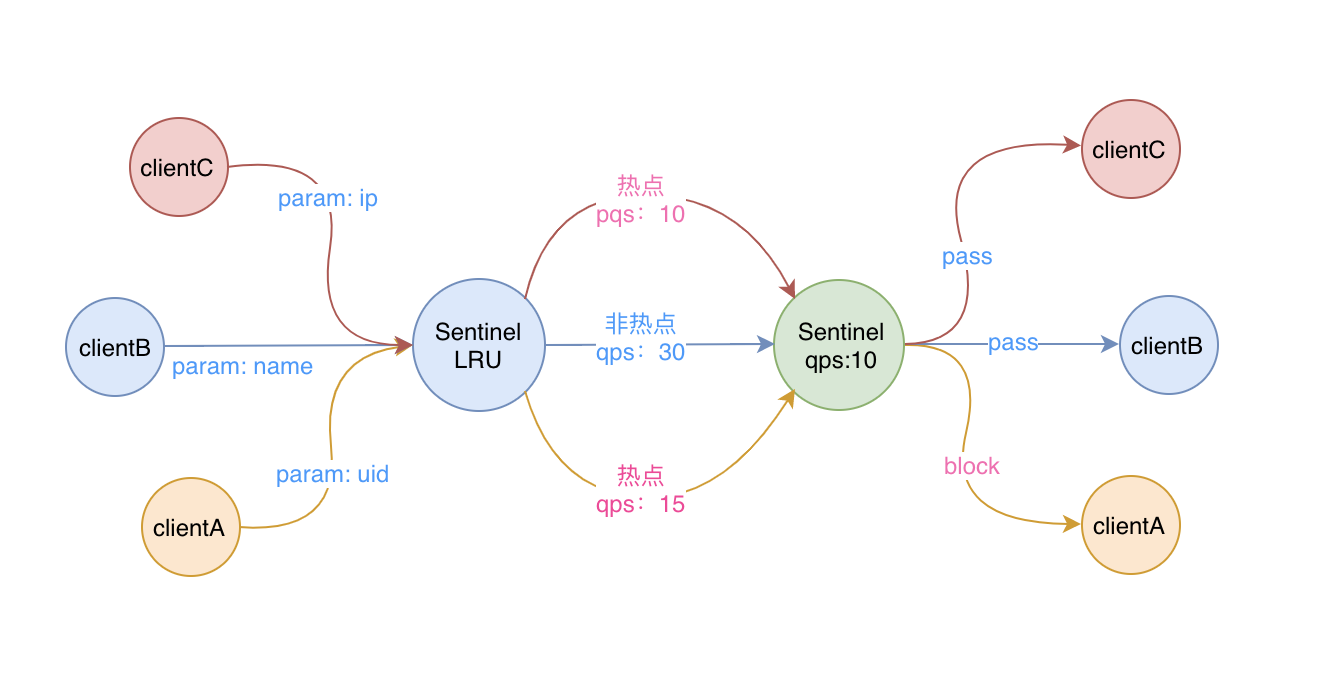
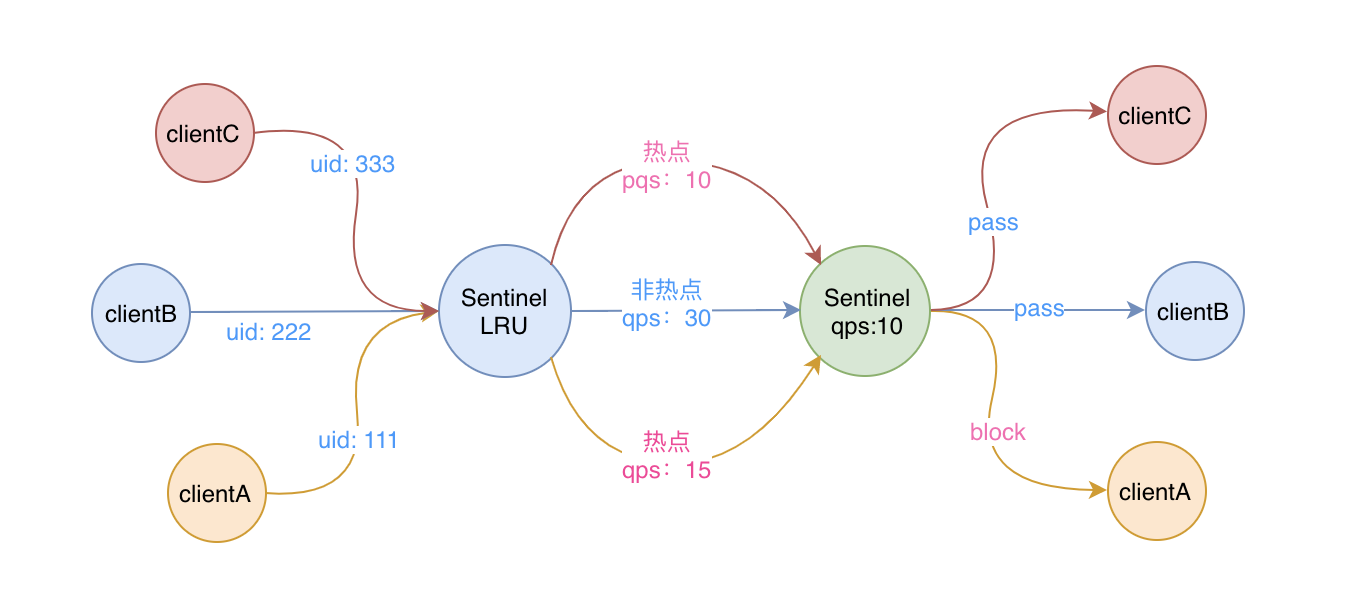
增加热点参数限流的Demo

diff --git a/sentinel-practice/sentinel-frequent-param-flow-control/src/main/java/com/lememo/sentinel/freqparamflow/FreqParamFlowSimulate.java b/sentinel-practice/sentinel-frequent-param-flow-control/src/main/java/com/lememo/sentinel/freqparamflow/FreqParamFlowSimulate.java
@@ -1,0 +1,206 @@
+package com.lememo.sentinel.freqparamflow;
+
+import com.alibaba.csp.sentinel.Entry;
+import com.alibaba.csp.sentinel.EntryType;
+import com.alibaba.csp.sentinel.SphU;
+import com.alibaba.csp.sentinel.slots.block.BlockException;
+import com.alibaba.csp.sentinel.slots.block.RuleConstant;
+import com.alibaba.csp.sentinel.slots.block.flow.param.ParamFlowItem;
+import com.alibaba.csp.sentinel.slots.block.flow.param.ParamFlowRule;
+import com.alibaba.csp.sentinel.slots.block.flow.param.ParamFlowRuleManager;
+import com.alibaba.csp.sentinel.util.TimeUtil;
+
+import java.util.Collections;
+import java.util.HashMap;
+import java.util.Map;
+import java.util.concurrent.ConcurrentHashMap;
+import java.util.concurrent.TimeUnit;
+import java.util.concurrent.atomic.AtomicLong;
+
+/**
+ * 模拟热点参数限流
+ * @author houyi
+ * @date 2019-01-19
+ **/
+public class FreqParamFlowSimulate {
+
+    private final String resourceName = "freqParam";
+
+    /**
+     * 4个用户的userId
+     */
+    private final Integer[] userIds = new Integer[]{111,222,333,444};
+
+    /**
+     * 4个用户的请求频率
+     */
+    private final Integer[] freqs = new Integer[]{20,80,160,300};
+
+    /**
+     * 整个过程模拟多少秒
+     */
+    private int simulateSeconds = 30;
+
+    /**
+     * 通过的次数
+     */
+    private final Map<Integer, AtomicLong> passCountMap = new ConcurrentHashMap<>();
+
+    private volatile boolean stop = false;
+
+    public static void main(String[] args) {
+        FreqParamFlowSimulate simulate = new FreqParamFlowSimulate();
+        // 初始化规则
+        simulate.initHotParamFlowRules();
+        // 初始化统计的map
+        simulate.initPassCountMap();
+        // 模拟请求
+        simulate.simulateUserRequest();
+        // 对请求结果进行统计
+        simulate.statisticResult();
+    }
+
+    /**
+     * 初始化热点限流的规则
+     */
+    private void initHotParamFlowRules() {
+        // 设置热点参数的规则，qps 模式，阈值为5
+        ParamFlowRule rule = new ParamFlowRule(resourceName)
+                .setParamIdx(0)
+                .setGrade(RuleConstant.FLOW_GRADE_QPS)
+                .setCount(5);
+        // 对userId=111的参数设置例外项，可以为该用户id的值单独设置阈值
+        ParamFlowItem item = new ParamFlowItem().setObject(String.valueOf(111))
+                .setClassType(int.class.getName())
+                .setCount(10);
+        rule.setParamFlowItemList(Collections.singletonList(item));
+        ParamFlowRuleManager.loadRules(Collections.singletonList(rule));
+    }
+
+    /**
+     * 初始化统计的map
+     */
+    private void initPassCountMap(){
+        for (Integer userId : userIds) {
+            passCountMap.putIfAbsent(userId, new AtomicLong());
+        }
+    }
+
+    /**
+     * 模拟用户请求
+     */
+    private void simulateUserRequest() {
+        int userCnt = userIds.length;
+        for (int i = 0; i < userCnt; i++) {
+            int userId = userIds[i];
+            int freq = freqs[i];
+            Thread t = new Thread(new UserRequestSimulator(userId,freq));
+            t.setName("simulator-" + userId);
+            t.start();
+        }
+    }
+
+    /**
+     * 统计结果
+     */
+    private void statisticResult() {
+        Thread timer = new Thread(new ResponseStatisticer());
+        timer.setName("statistic");
+        timer.start();
+    }
+
+    /**
+     * 模拟用户请求的线程
+     */
+    final class UserRequestSimulator implements Runnable {
+        /**
+         * 用户id
+         */
+        private int userId;
+        /**
+         * 请求的频率，单位：ms
+         */
+        private int freq;
+
+        UserRequestSimulator(int userId,int freq){
+            this.userId = userId;
+            this.freq = freq;
+        }
+
+        @Override
+        public void run() {
+            while (!stop) {
+                Entry entry = null;
+                try {
+                    // 对参数 userId 的值进行统计，通过热点参数的规则进行限流
+                    entry = SphU.entry(resourceName, EntryType.IN, 1, userId);
+                    // 用户id的值为：userId的请求已经通过了
+                    passCountMap.get(userId).incrementAndGet();
+                } catch (BlockException e) {
+                    // ignore
+                } finally {
+                    if (entry != null) {
+                        entry.exit();
+                    }
+                }
+                try {
+                    TimeUnit.MILLISECONDS.sleep(freq);
+                } catch (InterruptedException e) {
+                    // ignore
+                }
+            }
+        }
+    }
+
+    /**
+     * 用户请求结果的统计
+     * 每秒钟统计一次
+     */
+    final class ResponseStatisticer implements Runnable {
+
+        @Override
+        public void run() {
+            long start = System.currentTimeMillis();
+            System.out.println("Begin to run! Go go go!");
+            System.out.println("See corresponding metrics.log for accurate statistic data");
+            // 上一秒通过的次数统计
+            Map<Integer, Long> lastSecondPassCountMap = new HashMap<>(userIds.length);
+            for (Integer userId : userIds) {
+                lastSecondPassCountMap.putIfAbsent(userId, 0L);
+            }
+            while (!stop) {
+                try {
+                    // 每秒钟统计一次
+                    TimeUnit.SECONDS.sleep(1);
+                } catch (InterruptedException e) {
+                    // ignore
+                }
+                // 这种方式的统计可能会有误差
+                // 要查看实际的统计值，可以看 `metrics.log` 日志文件
+                for (Integer userId : userIds) {
+                    // 这一秒通过的次数
+                    long thisSecondPass = passCountMap.get(userId).get();
+                    // 上一秒通过的次数
+                    long lastSecondPass = lastSecondPassCountMap.get(userId);
+                    // 一秒钟内通过的次数
+                    long oneSecondPass = thisSecondPass - lastSecondPass;
+                    // 将这一秒通过的次数更新成上一秒通过的次数
+                    lastSecondPassCountMap.put(userId, thisSecondPass);
+                    System.out.println(String.format("[%d][%d] Hot param metrics for resource %s: "
+                                    + "pass count for userId [%s] is %d",
+                            simulateSeconds, TimeUtil.currentTimeMillis(), resourceName, userId, oneSecondPass));
+                }
+                if (simulateSeconds-- <= 0) {
+                    stop = true;
+                }
+            }
+
+            long cost = System.currentTimeMillis() - start;
+            System.out.println("Time cost: " + cost + " ms");
+            System.exit(0);
+        }
+    }
+
+
+
+}

diff --git a/sentinel-practice/sentinel-frequent-param-flow-control/src/main/java/com/lememo/sentinel/freqparamflow/FreqParamFlowController.java b/sentinel-practice/sentinel-frequent-param-flow-control/src/main/java/com/lememo/sentinel/freqparamflow/FreqParamFlowController.java
@@ -37,6 +37,7 @@ public class FreqParamFlowController {
 
     /**
      * 热点参数限流
+     * 构造不同的uid的值，并且以不同的频率来请求该方法，查看效果
      */
     @GetMapping("/freqParamFlow")
     public @ResponseBody
@@ -44,7 +45,7 @@ public class FreqParamFlowController {
         Entry entry = null;
         String retVal;
         try{
-            // 只对参数uid进行限流，参数ip不进行限制
+            // 只对参数 uid 的值进行限流，参数 ip 的值不进行限制
             entry = SphU.entry(resourceName, EntryType.IN,1,uid);
             retVal = "passed";
         }catch(BlockException e){

diff --git a/sentinel-practice/sentinel-frequent-param-flow-control/sentinel-frequent-param-flow-control.md b/sentinel-practice/sentinel-frequent-param-flow-control/sentinel-frequent-param-flow-control.md
@@ -53,7 +53,13 @@ private String resourceName = "freqParam";
 
 热点参数的规则是通过 ParamFlowRule 来定义的，跟流控的规则类 FlowRule 差不多，具体的属性如下表所示：
 
-![sentinel-freq-param-flow-rule](images/sentinel-freq-param-flow-rule.png)
+| 属性              | 说明                                                         | 注意                                       |
+| ----------------- | ------------------------------------------------------------ | ------------------------------------------ |
+| resource          | 资源名，必填                                                 |                                            |
+| count             | 限流阈值，必填                                               |                                            |
+| grade             | 限流模式                                                     | 目前只支持 pqs 模式                        |
+| paramIdx          | 热点参数的索引，必填                                         | 对应 SphU.entry(xx, args) 中的参数索引位置 |
+| paramFlowItemList | 参数例外项，可以针对特定的参数的值设置单独的阈值，而不受前面 count 阈值的限制。 | 仅支持基本类型                             |
 
 定义好规则之后，可以通过 ParamFlowRuleManager 的 loadRules 方法更新热点参数规则，如下所示：
 
@@ -85,6 +91,7 @@ public static Entry entry(Method method, EntryType type, int count, Object... ar
 ``` java
 /**
  * 热点参数限流
+ * 构造不同的uid的值，并且以不同的频率来请求该方法，查看效果
  */
 @GetMapping("/freqParamFlow")
 public @ResponseBody
@@ -108,7 +115,7 @@ String freqParamFlow(@RequestParam("uid") Long uid,@RequestParam("ip") Long ip) 
 
 ### 查看效果
 
-现在我们在浏览器中快速的刷新页面来请求该方法，可以看到如下两种返回结果：
+现在我们使用不同的 uid 来请求该接口，通过在浏览器中用不同的速度来刷新页面来请求该方法，可以看到如下两种返回结果：
 
 ![sentinel-freq-param-flow-request1](images/sentinel-freq-param-flow-request1.png)
 

diff --git a/README.md b/README.md
@@ -1,6 +1,6 @@
 # Sentinel教程
 
-本项目内容为一个 Sentinel 的教程。主要包括 Sentinel 原理和 Sentinel 实践 两部分内容。
+本项目内容为一个 Sentinel 的教程。主要包括 Sentinel 原理和 Sentinel 实践两部分内容。
 
 如您觉得该项目对您有用，欢迎点击右上方的 **Star** 按钮，给予支持！！
 
